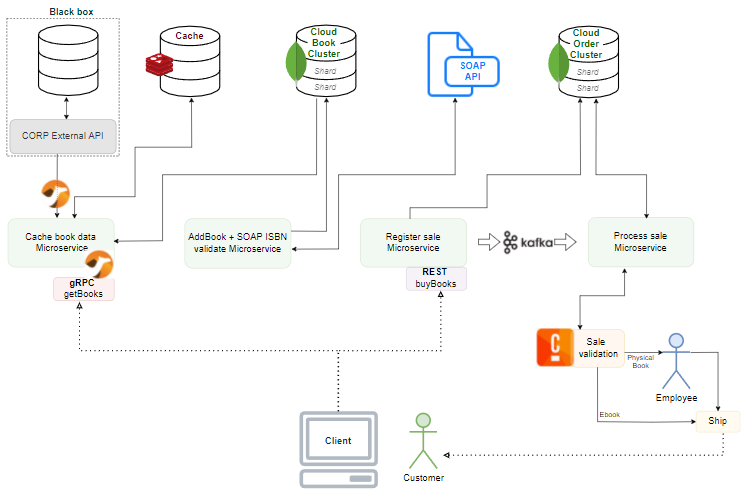
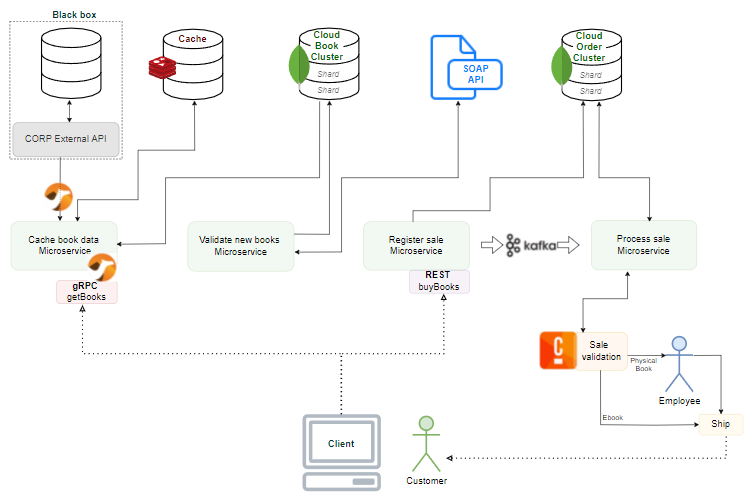
Init service folders

diff --git a/Examproject/Services/ValidateNewBooksService/README.md b/Examproject/Services/ValidateNewBooksService/README.md
@@ -1,0 +1,7 @@
+# ValidateNewBooksService
+
+## Contributors
+- _[Rúni Vedel Niclasen - cph-rn118](https://github.com/Runi-VN)_
+- _[Camilla Jenny Valerius Staunstrup - cph-cs340](https://github.com/Castau)_
+
+## Service Description

diff --git a/Examproject/Services/RegisterSaleService/README.md b/Examproject/Services/RegisterSaleService/README.md
@@ -1,0 +1,7 @@
+# RegisterSaleService
+
+## Contributors
+- _[Rúni Vedel Niclasen - cph-rn118](https://github.com/Runi-VN)_
+- _[Camilla Jenny Valerius Staunstrup - cph-cs340](https://github.com/Castau)_
+
+## Service Description

diff --git a/Examproject/Services/ProcessSaleService/README.md b/Examproject/Services/ProcessSaleService/README.md
@@ -1,0 +1,7 @@
+# ProcessSaleService
+
+## Contributors
+- _[Rúni Vedel Niclasen - cph-rn118](https://github.com/Runi-VN)_
+- _[Camilla Jenny Valerius Staunstrup - cph-cs340](https://github.com/Castau)_
+
+## Service Description

diff --git a/Examproject/Services/CacheService/README.md b/Examproject/Services/CacheService/README.md
@@ -1,0 +1,7 @@
+# CacheService
+
+## Contributors
+- _[Rúni Vedel Niclasen - cph-rn118](https://github.com/Runi-VN)_
+- _[Camilla Jenny Valerius Staunstrup - cph-cs340](https://github.com/Castau)_
+
+## Service Description
